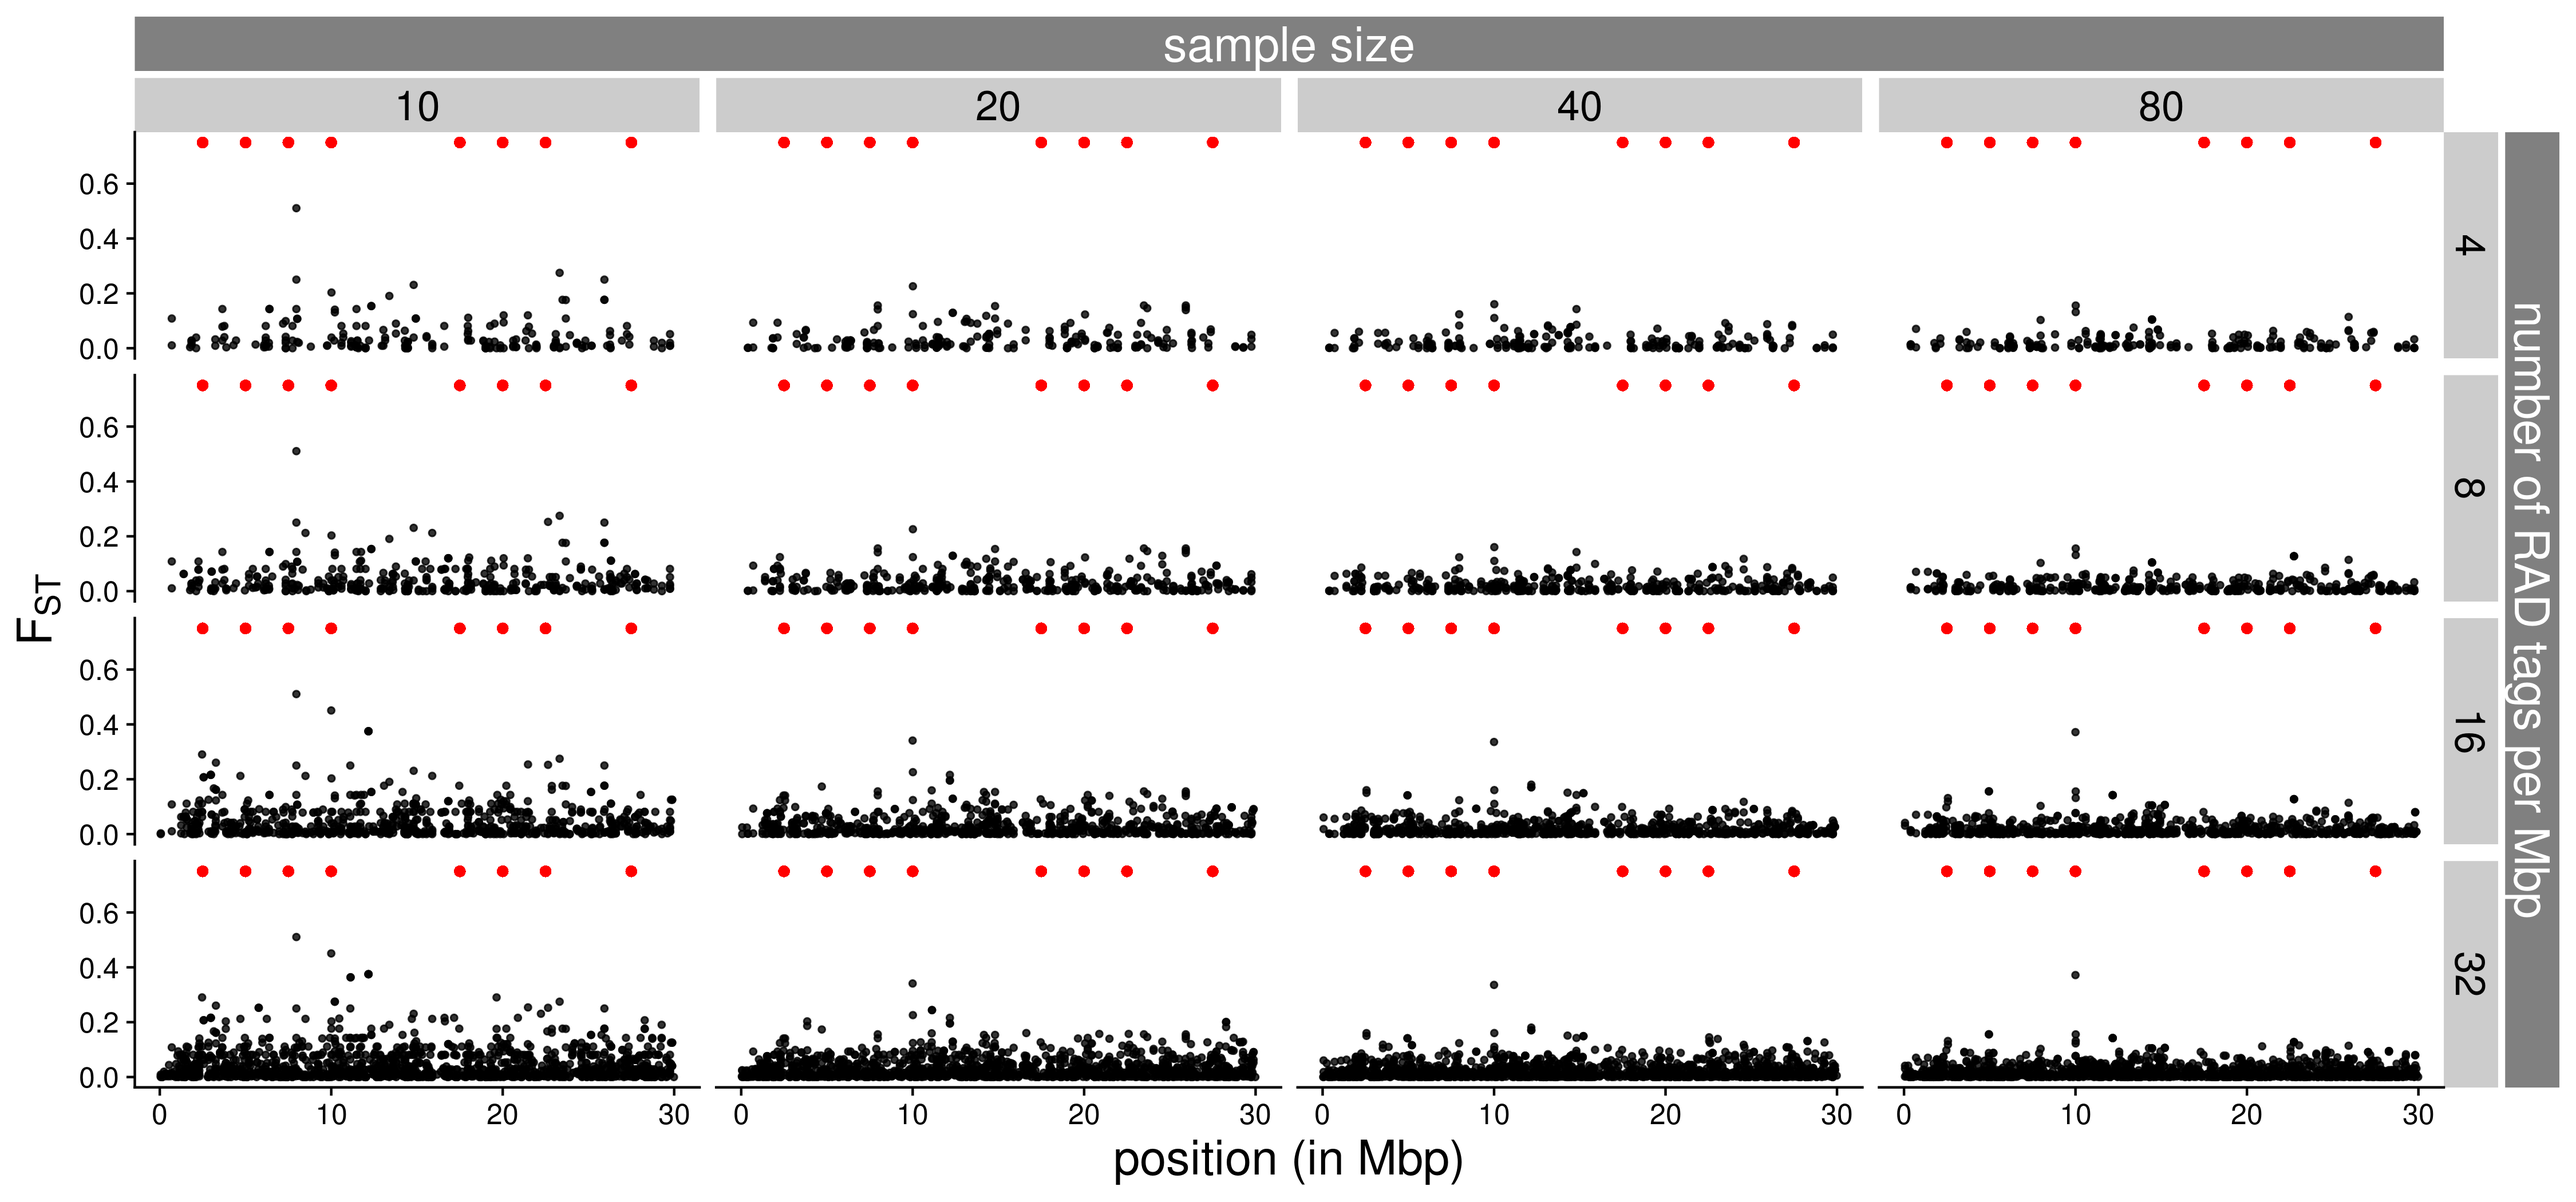
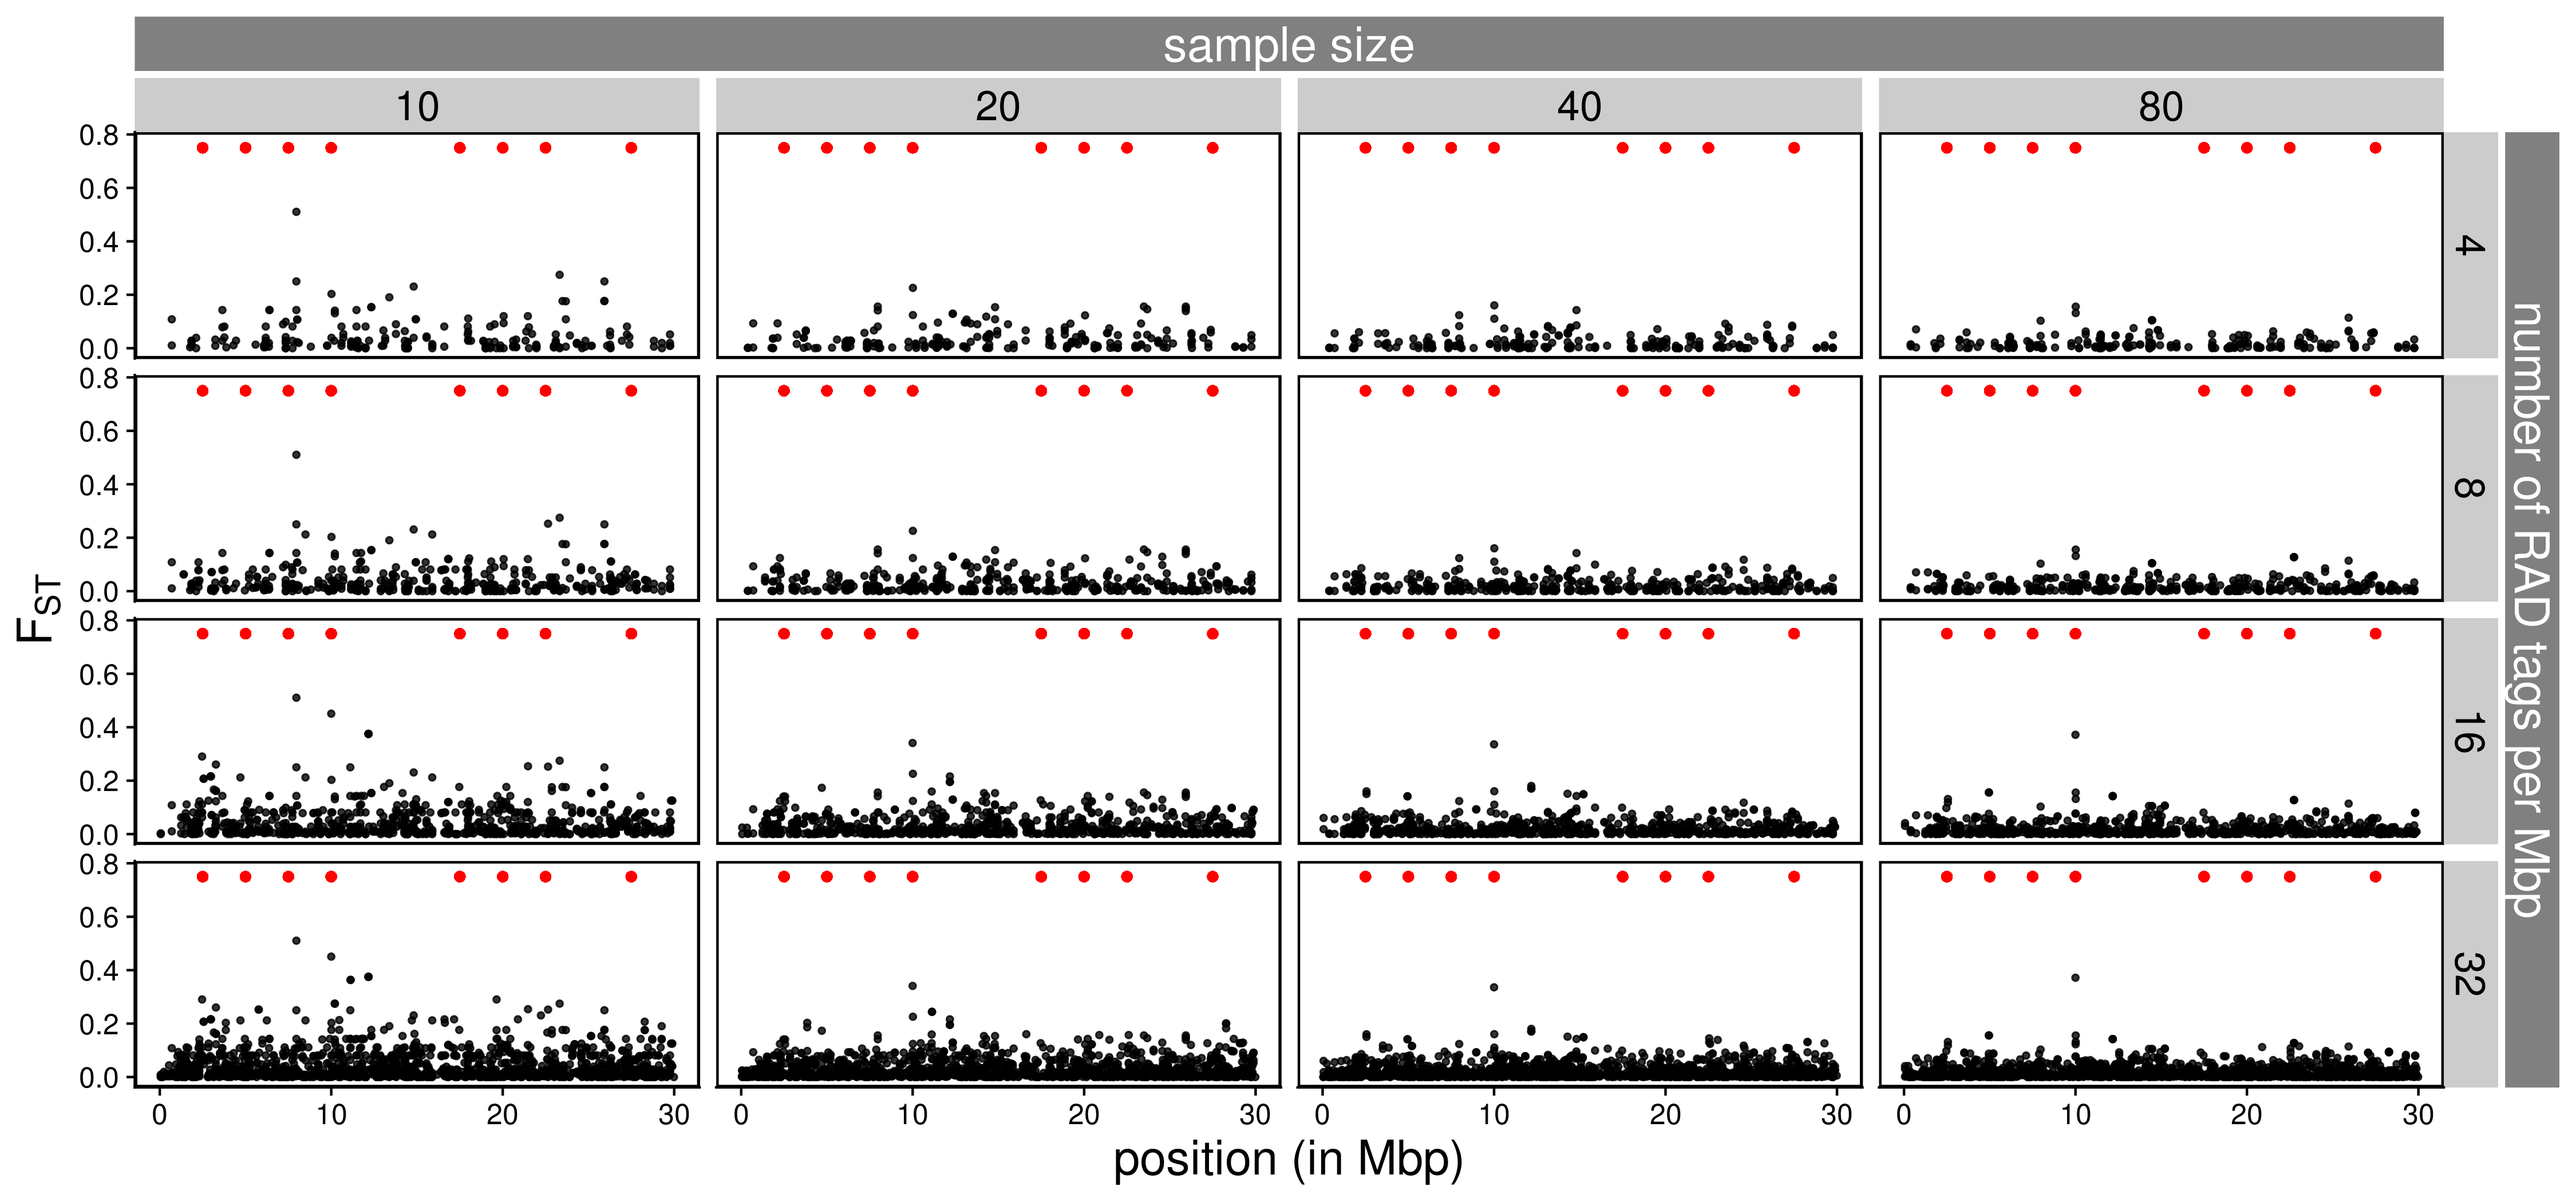
updated some figures for presentations

diff --git a/markdowns/figures.md b/markdowns/figures.md
@@ -60,8 +60,8 @@ error_plot_combined <- joined_frequency_final_combined %>%
   annotate("text", x = 4, y=1, label="SNP count", size=6) +
   facet_grid(coverage~sample_size) +
   scale_x_discrete(labels=seq(0.1, 0.9, 0.2))  +
-  scale_fill_viridis_d(labels=c("LC-WGS with even coverage", "LC-WGS with uneven coverage", "Pool-seq with uneven coverage"), begin = 0, end = 0.75) +
-  scale_color_viridis_d(labels=c("LC-WGS with even coverage", "LC-WGS with uneven coverage", "Pool-seq with uneven coverage"), begin = 0, end = 0.75) +
+  scale_fill_viridis_d(labels=c("LC-WGS with even coverage", "LC-WGS with uneven coverage", "Pool-seq with uneven coverage"), begin = 0, end = 0.75, direction = -1) +
+  scale_color_viridis_d(labels=c("LC-WGS with even coverage", "LC-WGS with uneven coverage", "Pool-seq with uneven coverage"), begin = 0, end = 0.75, direction = -1) +
   xlab("true frequency") +
   ylab("error") +
   ylim(c(0,1.02)) +
@@ -688,11 +688,12 @@ fst_plot <- filter(fst_n_ind_final, coverage < 4, sample_size > 5, sample_size <
   ggplot(aes(x=position/10^6, y=fst)) +
   geom_point(alpha=0.8, size=0.15) +
   geom_point(data=mutations_final_m2, aes(x=position/10^6, y=0.75), color="red", size=2, shape=16) +
-  ylim(NA, 0.75) +
+  ylim(NA, 0.77) +
   labs(x = "position (in Mbp)", y = expression(F[ST])) + 
   facet_grid(coverage~sample_size) +
   theme_cowplot() +
-  theme(text = element_text(size=20)
+  theme(text = element_text(size=20),
+        panel.border = element_rect(colour = "black", fill=NA, size=1)
         #, axis.title.x = element_blank(),
         #axis.text.x = element_blank(),
         #axis.ticks.x = element_blank()
@@ -720,35 +721,59 @@ include_graphics("../figures/two_pop_sim_fixed_m2_pos_windowed_fst.png")
 
 ![](../figures/two_pop_sim_fixed_m2_pos_windowed_fst.png)<!-- -->
 
-    fst_plot_radseq <- maf_final %>%
-      filter(sample_size > 5, sample_size < 160, n_rad_tag < 1000) %>%
-      mutate(n_rad_tag = n_rad_tag/30) %>%
-      ggplot(aes(x=position/10^6, y=fst)) +
-      geom_point(alpha=0.8, size=1) +
-      geom_point(data=mutations_final_m2, aes(x=position/10^6, y=0.75), color="red", size=2, shape=16) +
-      facet_grid(n_rad_tag~sample_size) +
-      labs(x = "position (in Mbp)", y = expression(F[ST])) + 
-      theme_cowplot() +
-      theme(text = element_text(size=20))
-    fst_plot_grob <- ggplotGrob(fst_plot_radseq)
-    
-    fst_plot_new <- gtable_add_cols(fst_plot_grob, unit(fst_plot_grob$widths[[12]], 'cm'), 13)  %>%
-      gtable_add_grob(list(rectGrob(gp = gpar(col = NA, fill = gray(0.5))),
-                           textGrob("number of RAD tags per Mbp", rot = -90, gp = gpar(col = gray(1)))),
-                      8, 14, 14, 14, name = paste(runif(2))) %>%
-      gtable_add_cols(unit(1/8, "line"), 13) %>%
-      gtable_add_rows(unit(fst_plot_grob$heights[[7]], 'cm'), 6) %>%
-      gtable_add_grob(list(rectGrob(gp = gpar(col = NA, fill = gray(0.5))),
-                              textGrob("sample size", gp = gpar(col = gray(1)))),
-                         7, 5, 7, 11, name = paste(runif(2))) %>%
-      gtable_add_rows(unit(1/8, "line"), 7)
-    ggsave("../figures/two_pop_sim_fixed_m2_pos_rad_seq_windowed_fst.png", fst_plot_new, width = 15, height = 7, units = "in", pointsize = 20)
+``` r
+fst_plot_radseq <- maf_final %>%
+  filter(sample_size > 5, sample_size < 160, n_rad_tag < 1000) %>%
+  mutate(n_rad_tag = n_rad_tag/30) %>%
+  ggplot(aes(x=position/10^6, y=fst)) +
+  geom_point(alpha=0.8, size=1) +
+  geom_point(data=mutations_final_m2, aes(x=position/10^6, y=0.75), color="red", size=2, shape=16) +
+  facet_grid(n_rad_tag~sample_size) +
+  labs(x = "position (in Mbp)", y = expression(F[ST])) + 
+  ylim(NA, 0.77) +
+  theme_cowplot() +
+  theme(text = element_text(size=20),
+        panel.border = element_rect(colour = "black", fill=NA, size=1))
+fst_plot_grob <- ggplotGrob(fst_plot_radseq)
+
+fst_plot_new <- gtable_add_cols(fst_plot_grob, unit(fst_plot_grob$widths[[12]], 'cm'), 13)  %>%
+  gtable_add_grob(list(rectGrob(gp = gpar(col = NA, fill = gray(0.5))),
+                       textGrob("number of RAD tags per Mbp", rot = -90, gp = gpar(col = gray(1)))),
+                  8, 14, 14, 14, name = paste(runif(2))) %>%
+  gtable_add_cols(unit(1/8, "line"), 13) %>%
+  gtable_add_rows(unit(fst_plot_grob$heights[[7]], 'cm'), 6) %>%
+  gtable_add_grob(list(rectGrob(gp = gpar(col = NA, fill = gray(0.5))),
+                          textGrob("sample size", gp = gpar(col = gray(1)))),
+                     7, 5, 7, 11, name = paste(runif(2))) %>%
+  gtable_add_rows(unit(1/8, "line"), 7)
+ggsave("../figures/two_pop_sim_fixed_m2_pos_rad_seq_windowed_fst.png", fst_plot_new, width = 15, height = 7, units = "in", pointsize = 20)
+
+fst_plot_radseq_single_row <-  maf_final %>%
+  filter(sample_size > 5, sample_size < 160, n_rad_tag == 960) %>%
+  mutate(n_rad_tag = n_rad_tag/30, method="RADseq") %>%
+  ggplot(aes(x=position/10^6, y=fst)) +
+  geom_point(alpha=0.8, size=1) +
+  geom_point(data=mutations_final_m2, aes(x=position/10^6, y=0.75), color="red", size=2, shape=16) +
+  facet_grid(method~sample_size) +
+  labs(x = "position (in Mbp)", y = expression(F[ST])) + 
+  ylim(NA, 0.77) +
+  theme_cowplot() +
+  theme(text = element_text(size=20),
+        panel.border = element_rect(colour = "black", fill=NA, size=1))
+ggsave("../figures/two_pop_sim_fixed_m2_pos_rad_seq_windowed_fst_single_row.png", fst_plot_radseq_single_row, width = 15, height = 2.5, units = "in", pointsize = 20)
+```
 
 ``` r
 include_graphics("../figures/two_pop_sim_fixed_m2_pos_rad_seq_windowed_fst.png")
 ```
 
 ![](../figures/two_pop_sim_fixed_m2_pos_rad_seq_windowed_fst.png)<!-- -->
+
+``` r
+include_graphics("../figures/two_pop_sim_fixed_m2_pos_rad_seq_windowed_fst_single_row.png")
+```
+
+![](../figures/two_pop_sim_fixed_m2_pos_rad_seq_windowed_fst_single_row.png)<!-- -->
 
 #### For papers
 
